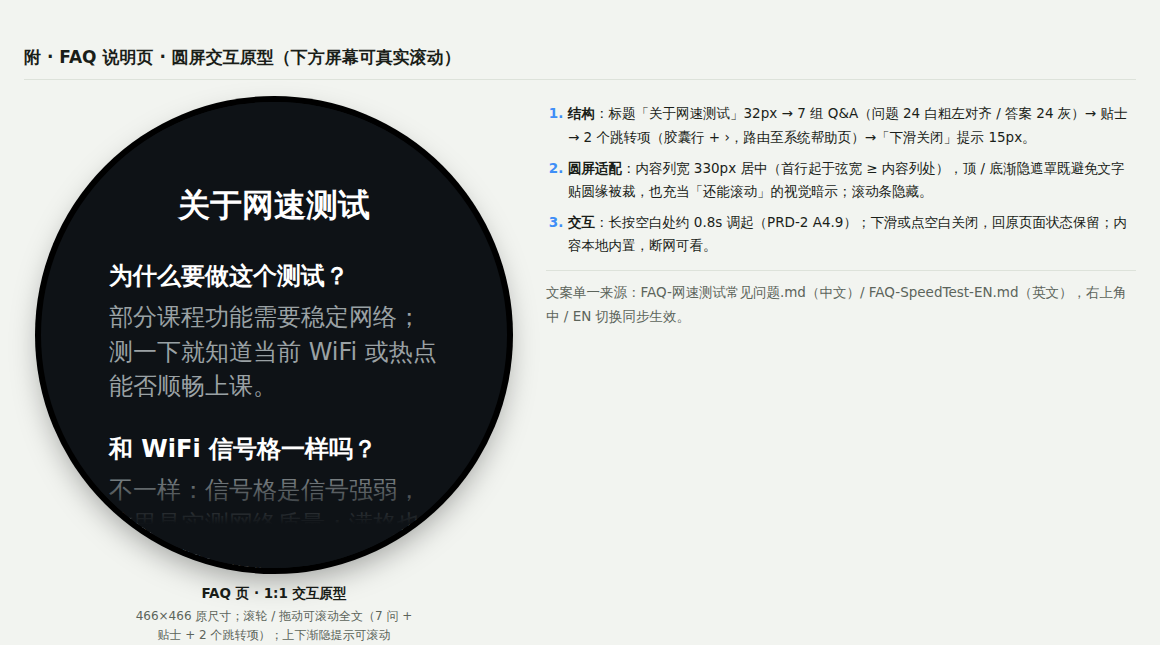
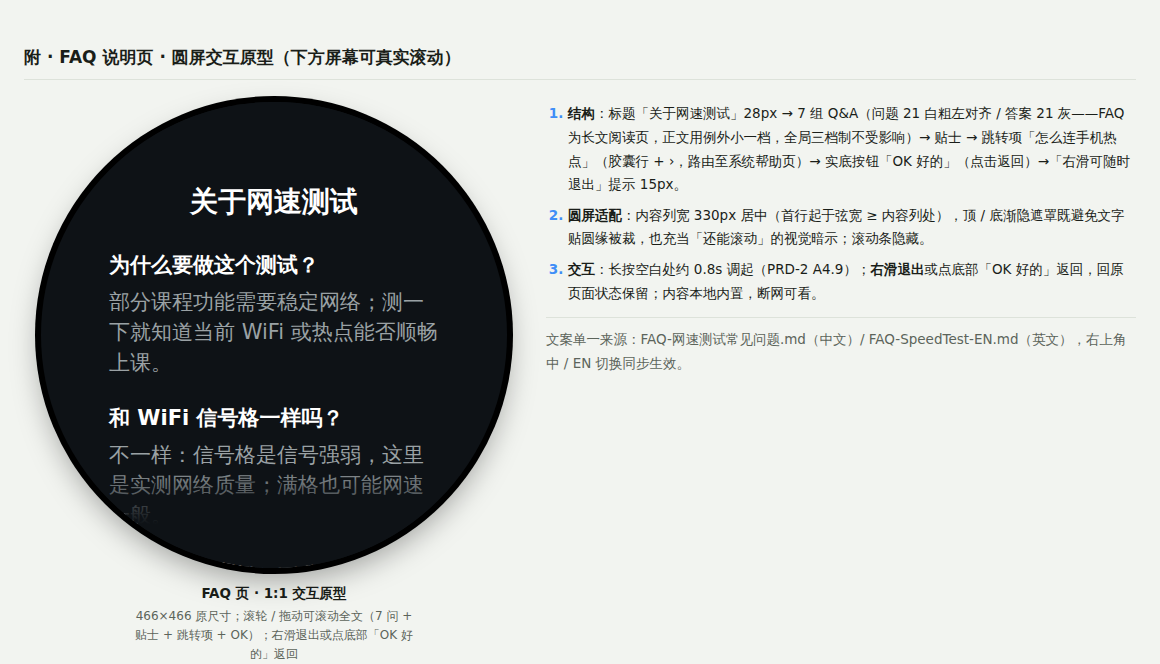
FAQ page: single hotspot link, OK button, swipe-right exit, smaller body type
Per review: keep only the "How to connect a phone hotspot" jump link
(the help page it routes to covers the Maximize Compatibility switch);
exit is now swipe-right or the solid "OK" button at the very bottom
(replacing swipe-down/tap-blank); body type drops one step to 21px
with a 28px title - documented as a long-read-page exception, the
global 3-tier scale is unchanged. Prototype, static figure, both FAQ
docs, and PRD-2 A4.9 (incl. horizontal-vs-vertical gesture exclusivity)
updated; images re-exported.

Claude-Session: https://claude.ai/code/session_01GK61VJL6HvXSFdCeuPzjiU

diff --git a/Demo-界面交互UI设计.html b/Demo-界面交互UI设计.html
@@ -187,11 +187,11 @@
   .faq-scroll { position: absolute; inset: 0; overflow-y: auto; scrollbar-width: none;
     padding: 78px 68px 110px; box-sizing: border-box; text-align: center; }
   .faq-scroll::-webkit-scrollbar { display: none; }
-  .faq-title { font-size: 32px; font-weight: 600; }
-  .faq-q { font-size: 24px; font-weight: 600; margin-top: 26px; text-align: left; }
-  .faq-a { font-size: 24px; color: var(--dev-sub); margin-top: 4px; text-align: left; line-height: 1.45; }
-  .faq-link { margin-top: 14px; background: var(--dev-card); border-radius: 99px; font-size: 24px;
-    padding: 12px 26px; display: flex; align-items: center; justify-content: space-between; text-align: left; }
+  .faq-title { font-size: 28px; font-weight: 600; }
+  .faq-q { font-size: 21px; font-weight: 600; margin-top: 24px; text-align: left; }
+  .faq-a { font-size: 21px; color: var(--dev-sub); margin-top: 4px; text-align: left; line-height: 1.45; }
+  .faq-link { margin-top: 14px; background: var(--dev-card); border-radius: 99px; font-size: 21px;
+    padding: 11px 24px; display: flex; align-items: center; justify-content: space-between; text-align: left; }
   .faq-link span.ch { color: var(--dev-sub); }
   .faq-fade-top, .faq-fade-bot { position: absolute; left: 0; right: 0; pointer-events: none; }
   .faq-fade-top { top: 0; height: 70px; background: linear-gradient(#0e1216 30%, transparent); }
@@ -483,14 +483,14 @@
     <figure class="shot">
       <div class="device"><div class="screen">
         <div style="flex:.6"></div>
-        <div class="big-status" data-en="About this test">关于网速测试</div>
+        <div class="big-status" style="font-size:28px" data-en="About this test">关于网速测试</div>
         <div style="width:352px; margin-top:14px; text-align:left; line-height:1.45">
-          <div style="font-size:24px; font-weight:600" data-en="Why this test?">为什么要做这个测试？</div>
-          <div style="font-size:24px; color:var(--dev-sub); margin-top:4px" data-en="Some class features need a stable connection — this checks yours.">部分课程功能需要稳定网络；测一下就知道当前 WiFi 或热点能否顺畅上课。</div>
-          <div style="font-size:24px; font-weight:600; margin-top:16px" data-en="Same as WiFi bars?">和 WiFi 信号格一样吗？</div>
-          <div style="font-size:24px; color:var(--dev-sub); margin-top:4px" data-en="No — those show signal strength; these show measured quality.">不一样：信号格是信号强弱，这里是实测网络质量。</div>
+          <div style="font-size:21px; font-weight:600" data-en="Why this test?">为什么要做这个测试？</div>
+          <div style="font-size:21px; color:var(--dev-sub); margin-top:4px" data-en="Some class features need a stable connection — this checks yours.">部分课程功能需要稳定网络；测一下就知道当前 WiFi 或热点能否顺畅上课。</div>
+          <div style="font-size:21px; font-weight:600; margin-top:16px" data-en="Same as WiFi bars?">和 WiFi 信号格一样吗？</div>
+          <div style="font-size:21px; color:var(--dev-sub); margin-top:4px" data-en="No — those show signal strength; these show measured quality.">不一样：信号格是信号强弱，这里是实测网络质量。</div>
         </div>
-        <div style="font-size:15px; color:var(--dev-sub); margin-top:12px" data-en="Swipe for more">上滑查看更多 · 下滑关闭</div>
+        <div style="font-size:15px; color:var(--dev-sub); margin-top:12px" data-en="Swipe for more · swipe right to exit">上滑查看更多 · 右滑退出</div>
         <div style="flex:1"></div>
       </div></div>
       <figcaption><b>小程序 · FAQ 说明页（隐藏入口）</b><span>任意页面<b>长按空白处约 0.8s</b> 调起（按钮 / 报告卡区除外）；消费者口吻 7 问 + 小贴士 + 页底跳转「连接手机热点 / 开启最大兼容」（隐私口径保守：不描述数据流向，上/下行只说收发速度）；本地内置断网可看；首次进入一次性提示「长按空白处可查看说明」</span></figcaption>
@@ -712,19 +712,19 @@
           <div class="faq-a" data-en="No — the system checks periodically; you’ll get a push if it stays poor.">不需要：系统会定期自动检测；网络持续不好会收到一条推送提醒。</div>
           <div class="faq-q" data-en="Still stuck?">问题解决不了？</div>
           <div class="faq-a" data-en="Screenshot the result page and send it to support — one image is all they need.">把结果页截图发给客服，一张图就够。</div>
-          <div class="faq-link" style="margin-top:24px"><span data-en="How to connect a phone hotspot">怎么连接手机热点</span><span class="ch">›</span></div>
-          <div class="faq-link"><span data-en="How to enable Maximize Compatibility">怎么开启最大兼容</span><span class="ch">›</span></div>
-          <div style="font-size:15px; color:var(--dev-sub); margin-top:22px" data-en="Swipe down to close">下滑关闭</div>
+          <div class="faq-link" style="margin-top:24px"><span data-en="How to connect a phone hotspot">怎么连手机热点</span><span class="ch">›</span></div>
+          <div class="btn primary" style="display:inline-block; margin-top:20px; padding:10px 44px" data-en="OK">OK 好的</div>
+          <div style="font-size:15px; color:var(--dev-sub); margin-top:14px" data-en="Swipe right anytime to exit">右滑可随时退出</div>
         </div>
         <div class="faq-fade-top"></div><div class="faq-fade-bot"></div>
       </div></div>
-      <figcaption><b>FAQ 页 · 1:1 交互原型</b><span>466×466 原尺寸；滚轮 / 拖动可滚动全文（7 问 + 贴士 + 2 个跳转项）；上下渐隐提示可滚动</span></figcaption>
+      <figcaption><b>FAQ 页 · 1:1 交互原型</b><span>466×466 原尺寸；滚轮 / 拖动可滚动全文（7 问 + 贴士 + 跳转项 + OK）；右滑退出或点底部「OK 好的」返回</span></figcaption>
     </figure>
     <div class="anno-legend">
       <ol>
-        <li><b>结构</b>：标题「关于网速测试」32px → 7 组 Q&A（问题 24 白粗左对齐 / 答案 24 灰）→ 贴士 → 2 个跳转项（胶囊行 + ›，路由至系统帮助页）→「下滑关闭」提示 15px。</li>
+        <li><b>结构</b>：标题「关于网速测试」28px → 7 组 Q&A（问题 21 白粗左对齐 / 答案 21 灰——FAQ 为长文阅读页，正文用例外小一档，全局三档制不受影响）→ 贴士 → 跳转项「怎么连手机热点」（胶囊行 + ›，路由至系统帮助页）→ 实底按钮「OK 好的」（点击返回）→「右滑可随时退出」提示 15px。</li>
         <li><b>圆屏适配</b>：内容列宽 330px 居中（首行起于弦宽 ≥ 内容列处），顶 / 底渐隐遮罩既避免文字贴圆缘被裁，也充当「还能滚动」的视觉暗示；滚动条隐藏。</li>
-        <li><b>交互</b>：长按空白处约 0.8s 调起（PRD-2 A4.9）；下滑或点空白关闭，回原页面状态保留；内容本地内置，断网可看。</li>
+        <li><b>交互</b>：长按空白处约 0.8s 调起（PRD-2 A4.9）；<b>右滑退出</b>或点底部「OK 好的」返回，回原页面状态保留；内容本地内置，断网可看。</li>
       </ol>
       <p class="anno-note">文案单一来源：FAQ-网速测试常见问题.md（中文）/ FAQ-SpeedTest-EN.md（英文），右上角中 / EN 切换同步生效。</p>
     </div>

diff --git a/PRD-2-网速测试小程序.md b/PRD-2-网速测试小程序.md
@@ -77,12 +77,12 @@
 | **测速中课程开始**（预约课自动进课） | 课中互斥优先：立即取消测速，进课不被阻塞；已回传半程样本随上报带出 |
 
 - **A4.9 隐藏说明入口（长按背景 → FAQ）**：小程序内**任意页面长按非按钮 / 非报告卡交互区的背景约 0.8s**（+ 轻震动反馈）弹出全屏 FAQ 页「关于网速测试」，回答「为什么产品要自带网络测试」「和自己用测速软件有什么区别」等困惑（文案单一来源：中文 [`FAQ-网速测试常见问题.md`](./FAQ-网速测试常见问题.md) / 英文 [`FAQ-SpeedTest-EN.md`](./FAQ-SpeedTest-EN.md)，含屏上精简版字数预算；**隐私口径保守**——不描述数据流向与内容，上/下行仅解释为发送 / 接收速度）。交互规则：
-  - **形态**：全屏页（用户主动调起，不算打扰）——标题「关于网速测试」32px + 可滚动 Q&A 列表（问题 24 白加粗 / 答案 24 灰，答案 ≤3 行）；下滑或点空白关闭，**返回原页面且状态保留**（测速中长按不中断任务，FAQ 关闭后回到进行中的测速页）；
+  - **形态**：全屏页（用户主动调起，不算打扰）——标题「关于网速测试」28px + 可滚动 Q&A 列表（问题 21 白加粗 / 答案 21 灰，答案 ≤3 行；**FAQ 为长文阅读页，正文用例外小一档 21px**，全局三档制不变，例外仅限本页）；**右滑退出**或点底部实底按钮「OK 好的」返回，**返回原页面且状态保留**（测速中长按不中断任务，FAQ 关闭后回到进行中的测速页）；
   - **为什么用隐藏入口**：说明属低频需求，不占常驻 UI（六态页面寸土寸金）；**首次进入小程序在底部一次性提示「长按空白处可查看说明」**（仅提示一次，本地记录）；失败态与客服话术中也可引导长按；
-  - **页底跳转项**：FAQ 列表末尾固定两个跳转入口——「怎么连接手机热点」「怎么开启最大兼容」→ 系统帮助页（路由由客户端配置；配合 Q6「信号差建议连手机 5G 热点」的引导闭环）；
+  - **页底结构**：FAQ 列表末尾依次为——跳转项「怎么连手机热点」→ 系统帮助页（路由由客户端配置，页内含 iPhone「最大兼容」开关说明；配合 Q6「信号差建议连手机 5G 热点」的引导闭环）→ 实底按钮「OK 好的」（点击返回）→「右滑可随时退出」提示（15px）；
   ![FAQ 页圆屏交互原型：可滚动 Q&A + 页底跳转项 + 上下渐隐](./images/界面-FAQ圆屏原型.png)
 
-  - **边界**：长按判定与滚动 / 点按手势互斥（位移超阈值即取消）；按钮、波形卡、历史列表等可交互区域内长按不触发（避免误出）；FAQ 页内容静态本地内置，无网络依赖（断网也能看——断网场景恰恰是最需要它的时刻；两个跳转项目标为系统页，同样离线可达）。
+  - **边界**：长按判定与滚动 / 点按手势互斥（位移超阈值即取消）；**右滑退出手势与纵向滚动互斥**（横向位移主导才判退出）；按钮、波形卡、历史列表等可交互区域内长按不触发（避免误出）；FAQ 页内容静态本地内置，无网络依赖（断网也能看——断网场景恰恰是最需要它的时刻；跳转项目标为系统页，同样离线可达）。
 
 **结果页设计规范标注**（七个分区的字号 / 颜色 / 规则速查；下半部分为课中穿透式抽屉规范，属 PRD-3 范围，同图收录；完整交互见 Demo 附录）：
 

diff --git a/FAQ-SpeedTest-EN.md b/FAQ-SpeedTest-EN.md
@@ -44,7 +44,7 @@ No. **The system checks your network periodically on its own**; if the connectio
 
 ## On-screen condensed version (round screen, English)
 
-> Spec: question 24px white bold, answer 24px gray, each answer ≤ 3 lines.
+> Spec: title 28px; question 21px white bold, answer 21px gray (the FAQ is a long-read page and uses one size smaller as an exception; the global 3-tier type scale is unchanged), each answer ≤ 3 lines.
 
 | # | Question | Answer |
 | --- | --- | --- |
@@ -55,7 +55,7 @@ No. **The system checks your network periodically on its own**; if the connectio
 | 5 | Does it cost data? | A little, only when you tap Test; never during class. |
 | 6 | Occasional weak signal? | Networks fluctuate — we auto-reconnect in class. Best used where the network is good. |
 | 7 | Test manually every time? | No — the system checks periodically; you'll get a push if it stays poor. |
-| Hotspot | Weak-signal environment? | Try your phone's 5G hotspot — see "Connect a hotspot / Maximize Compatibility" links. |
+| Hotspot | Weak-signal environment? | Try your phone's 5G hotspot — see the "How to connect a phone hotspot" link. |
 | Tip | Still stuck? | Screenshot the result page for support. |
 
 ---
@@ -68,7 +68,7 @@ When local WiFi is weak, a phone 5G hotspot usually gives a steadier class exper
 2. In ATOM's WiFi list, select your phone's hotspot and connect;
 3. Come back to this app and run one test — a "Good speed" result means you're set.
 
-> **Tips**: step-by-step guides are linked at the bottom of the FAQ page → **"How to connect a phone hotspot"** · **"How to enable Maximize Compatibility"** ("Maximize Compatibility" is the iPhone Personal Hotspot switch; some devices can only find the hotspot when it's on. Both links route to system help pages, configured by the client).
+> **Tips**: a step-by-step guide is linked at the bottom of the FAQ page → **"How to connect a phone hotspot"** (routes to a system help page, configured by the client; that page also covers the iPhone Personal Hotspot "Maximize Compatibility" switch — some devices can only find the hotspot when it's on).
 
 ---
 
@@ -76,6 +76,6 @@ When local WiFi is weak, a phone 5G hotspot usually gives a steadier class exper
 
 - **Trigger**: on any page of the app, long-press a blank area (outside buttons / the report card) for **~0.8s** with light haptic feedback → fullscreen FAQ;
 - **Discovery**: a one-time hint on first launch — "Long-press anywhere to learn more";
-- **Form**: title "About this test" (32px) + scrollable Q&A (24px bold questions / 24px gray answers); swipe down or tap blank space to close, returning to the previous page with state preserved (a running test is not interrupted); content is bundled locally and **readable offline**;
-- **Two jump links at the bottom of the FAQ page**: "How to connect a phone hotspot" and "How to enable Maximize Compatibility" → system help pages;
+- **Form**: title "About this test" (28px) + scrollable Q&A (21px bold questions / 21px gray answers); **swipe right to exit**, or tap the solid "OK" button at the bottom — both return to the previous page with state preserved (a running test is not interrupted); content is bundled locally and **readable offline**;
+- **One jump link at the bottom of the FAQ page**: "How to connect a phone hotspot" → system help page (which also covers Maximize Compatibility); followed by the "OK" button and a "swipe right anytime to exit" hint;
 - Single source of truth for copy = this file (EN) and the CN file; on-screen text follows the condensed table.
